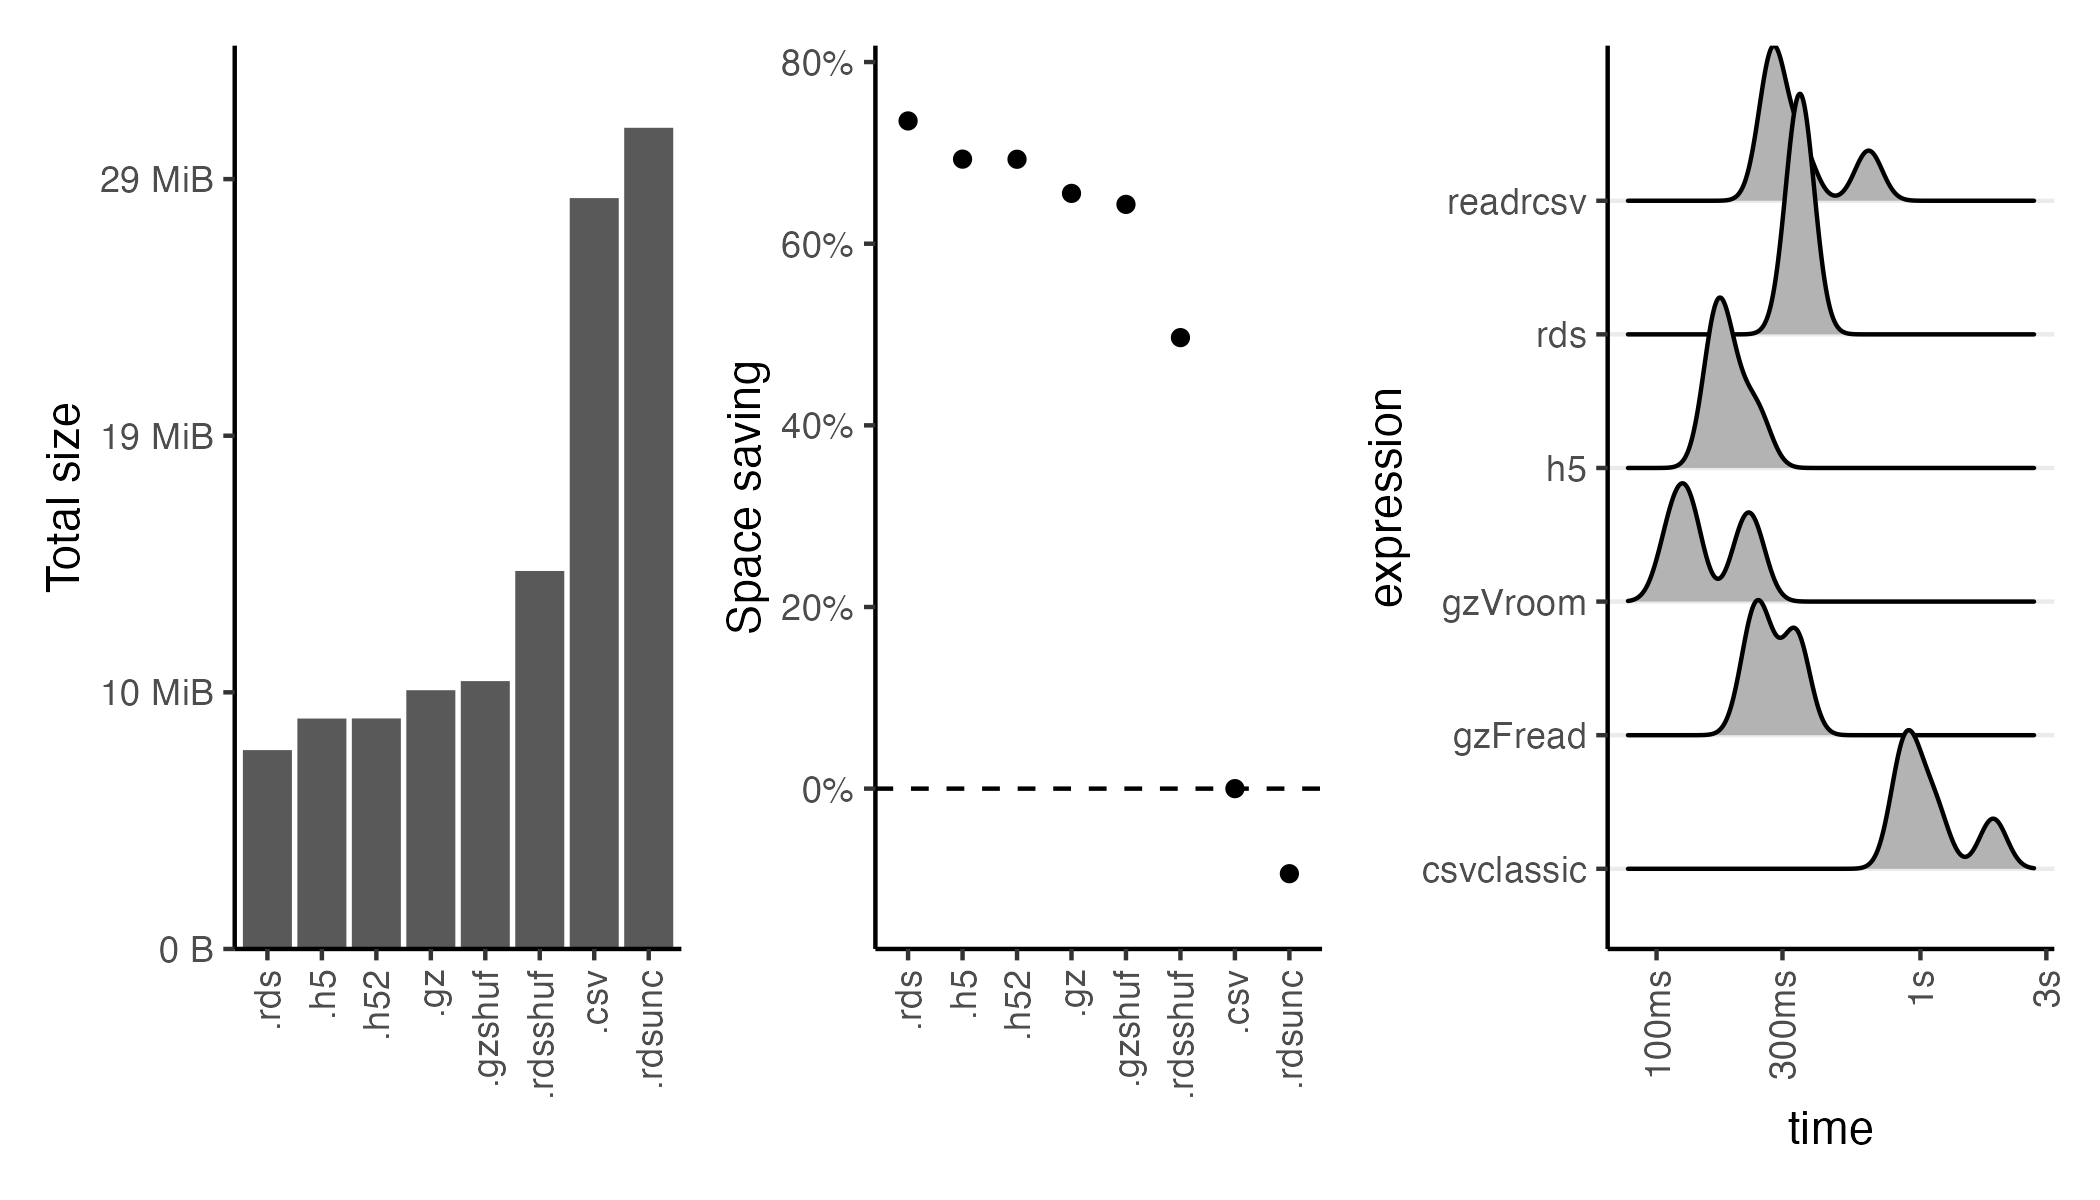
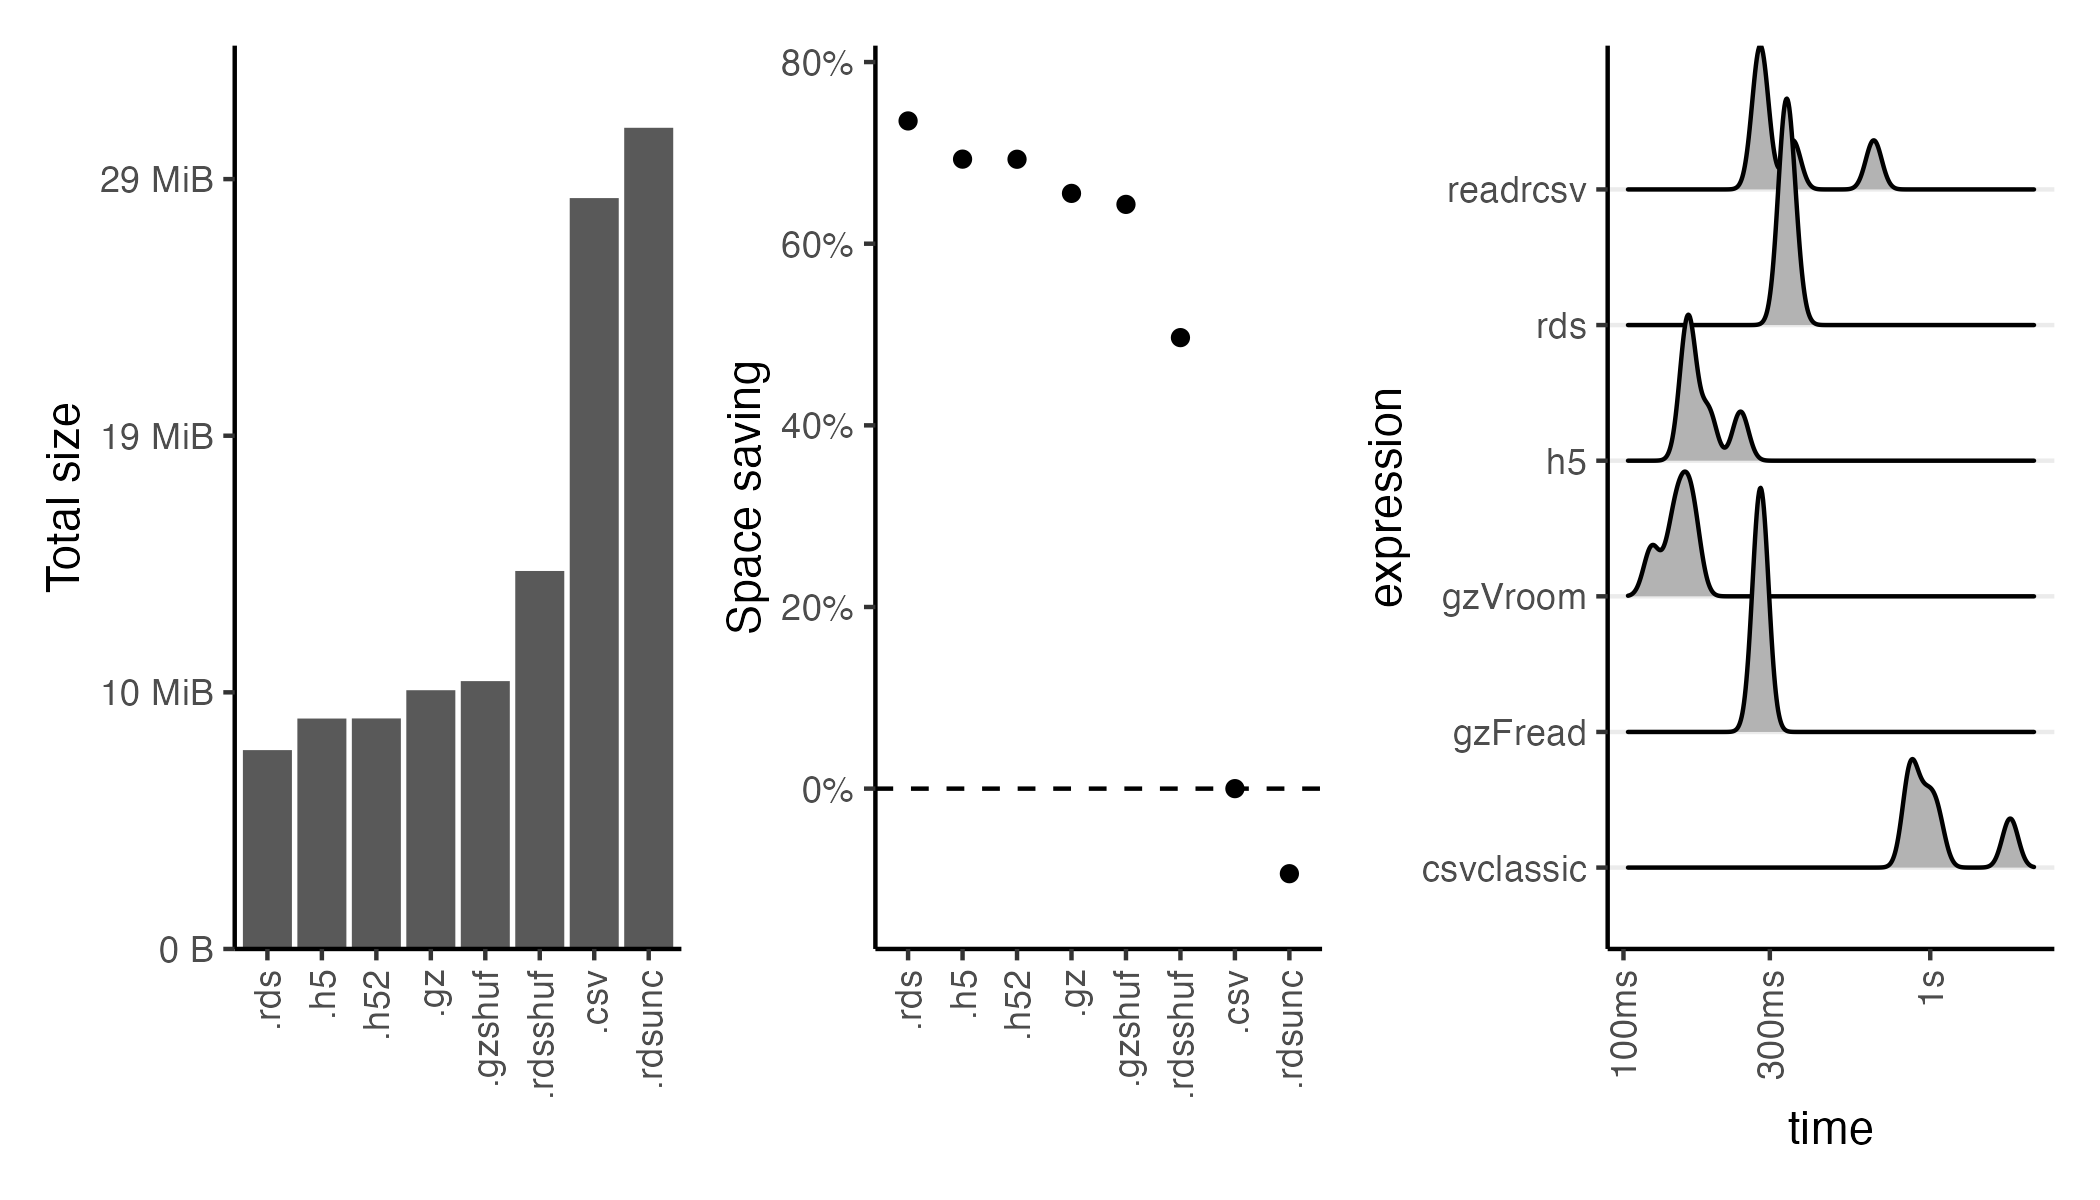
upddat

diff --git a/README.md b/README.md
@@ -1,6 +1,8 @@
 
 # Testing HDF5 in R
 
+![](README_files/figure-gfm/unnamed-chunk-2-1.png)
+
 The package that I found can be used for HDF5 in R is rhdf5. It is a
 wrapper for the C library HDF5. The package is available on
 bioconductor,
@@ -191,8 +193,8 @@ autoplot(bm_df,type = "ridge") + theme_classic() +
 
     ## Loading required namespace: tidyr
 
-    ## Picking joint bandwidth of 0.0516
+    ## Picking joint bandwidth of 0.0258
 
 <img src="README_files/figure-gfm/unnamed-chunk-2-1.png" style="display: block; margin: auto;" />
 
-    ## Picking joint bandwidth of 0.0516
+    ## Picking joint bandwidth of 0.0258
